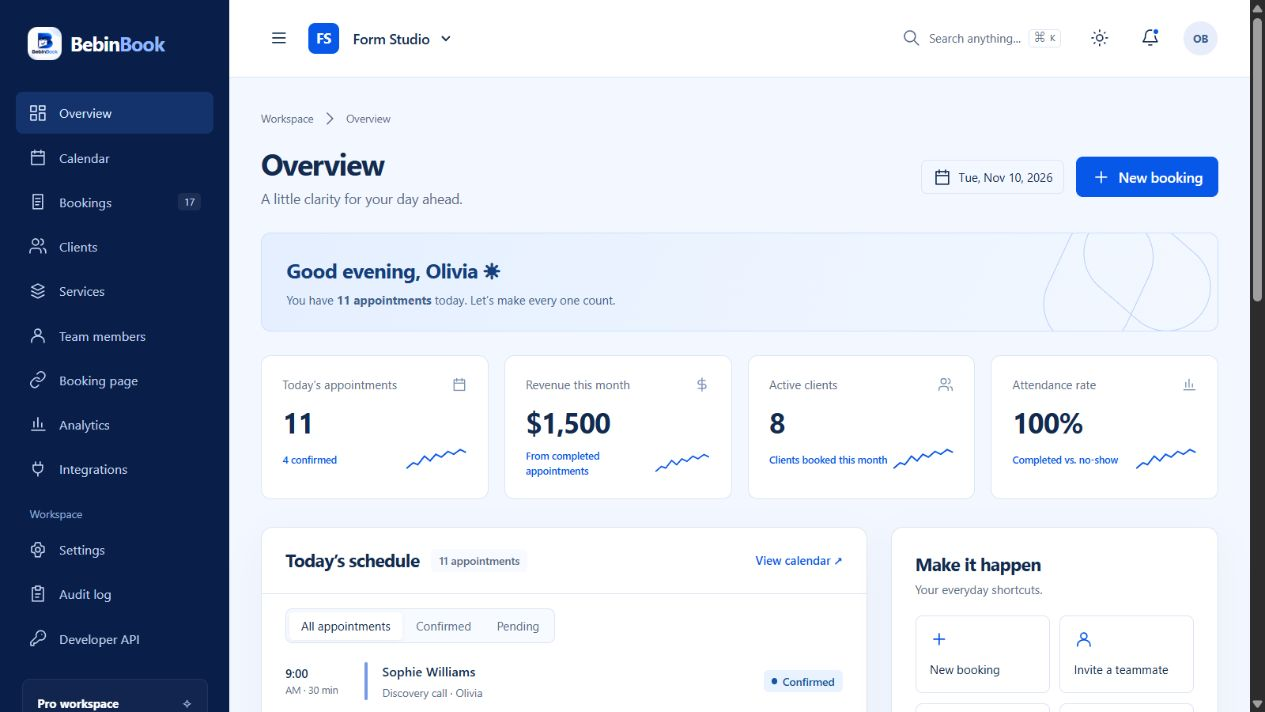
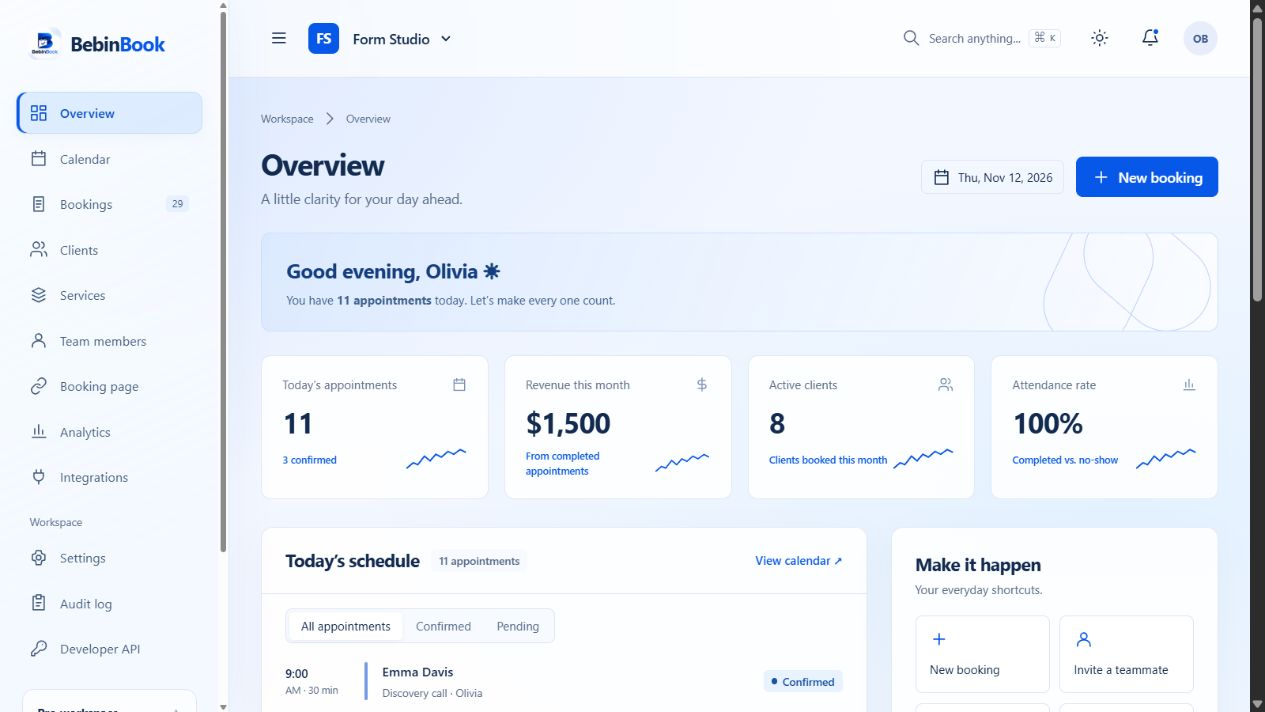
Refresh app with light translucent sidebar and surfaces

diff --git a/frontend/src/styles.css b/frontend/src/styles.css
@@ -14,6 +14,17 @@
   --sidebar: #091e49;
   --side-text: #c1d2ee;
   --on-sidebar-muted: #adc3e7;
+  --glass: rgba(255, 255, 255, 0.72);
+  --glass-strong: rgba(255, 255, 255, 0.88);
+  --glass-line: rgba(129, 162, 216, 0.24);
+  --nav-glass: rgba(245, 250, 255, 0.76);
+  --nav-text: #455d7e;
+  --nav-muted: #5b7090;
+  --nav-active: #0750cf;
+  --nav-active-bg: rgba(218, 233, 255, 0.86);
+  --nav-hover: rgba(224, 236, 255, 0.66);
+  --ambient-blue: rgba(109, 164, 255, 0.19);
+  --ambient-sky: rgba(139, 208, 255, 0.15);
   --accent: #2757b8;
   --blue: #2168bc;
   --service-1: #7699e8;
@@ -52,13 +63,28 @@
   --welcome-muted: #b5c9e9;
   --danger: #ff9ba9;
   --shadow: 0 12px 40px #0002;
+  --glass: rgba(18, 33, 59, 0.72);
+  --glass-strong: rgba(20, 38, 65, 0.9);
+  --glass-line: rgba(142, 180, 235, 0.2);
+  --nav-glass: rgba(21, 40, 69, 0.76);
+  --nav-text: #c1d2ed;
+  --nav-muted: #a6bbd9;
+  --nav-active: #dbe9ff;
+  --nav-active-bg: rgba(67, 112, 183, 0.38);
+  --nav-hover: rgba(80, 122, 184, 0.18);
+  --ambient-blue: rgba(55, 105, 187, 0.2);
+  --ambient-sky: rgba(49, 118, 160, 0.12);
 }
 * {
   box-sizing: border-box;
 }
 body {
   margin: 0;
-  background: var(--bg);
+  background:
+    radial-gradient(ellipse at 0% 8%, var(--ambient-blue), transparent 48%),
+    radial-gradient(ellipse at 90% 70%, var(--ambient-sky), transparent 48%),
+    var(--bg);
+  background-attachment: fixed;
   color: var(--text);
   font: 14px/1.5 var(--font);
 }
@@ -163,8 +189,6 @@ small,
 .brand-word-accent {
   color: #0757e8;
 }
-.sidebar .brand-word-accent,
-.authaside .brand-word-accent,
 [data-theme="dark"] .brand-word-accent {
   color: #8fb5ff;
 }
@@ -261,8 +285,8 @@ small,
   gap: 20px;
 }
 .panel {
-  background: var(--surface);
-  border: 1px solid var(--line);
+  background: var(--glass-strong);
+  border: 1px solid var(--glass-line);
   border-radius: var(--radius);
   box-shadow: var(--shadow);
 }
@@ -466,25 +490,34 @@ small,
   position: fixed;
   inset: 0 auto 0 0;
   width: 232px;
-  background: var(--sidebar);
-  color: var(--side-text);
+  background:
+    linear-gradient(155deg, var(--glass), transparent 75%), var(--nav-glass);
+  color: var(--nav-text);
+  border-right: 1px solid var(--glass-line);
+  box-shadow:
+    8px 0 40px rgba(33, 79, 144, 0.04),
+    inset -1px 0 0 var(--glass);
+  -webkit-backdrop-filter: blur(24px) saturate(140%);
+  backdrop-filter: blur(24px) saturate(140%);
   z-index: 30;
   display: flex;
   flex-direction: column;
   padding: 27px 16px 16px;
+  overflow-y: auto;
+  scrollbar-width: thin;
 }
 .sidebar .logo {
-  color: #fff;
+  color: var(--text);
   margin: 0 12px 32px;
 }
 .sidegroup {
   font-size: 11px;
-  color: #96b1d9;
+  color: var(--nav-muted);
   padding: 16px 14px 7px;
 }
 .sidenav {
   display: grid;
-  gap: 3px;
+  gap: 4px;
 }
 .navitem {
   display: flex;
@@ -492,22 +525,28 @@ small,
   gap: 12px;
   padding: 10px 13px;
   min-height: 42px;
-  border-radius: 7px;
-  color: var(--side-text);
+  border: 1px solid transparent;
+  border-radius: 10px;
+  color: var(--nav-text);
   font-size: 13px;
 }
 .navitem:hover {
-  background: #ffffff0c;
-  color: #fff;
+  background: var(--nav-hover);
+  color: var(--nav-active);
 }
 .navitem.active {
-  background: #478cff30;
-  color: var(--highlight);
+  background: var(--nav-active-bg);
+  color: var(--nav-active);
+  border-color: var(--glass-line);
+  box-shadow:
+    inset 3px 0 0 var(--brand),
+    0 4px 12px rgba(42, 94, 177, 0.05);
+  font-weight: 600;
 }
 .navitem .count {
   margin-left: auto;
   font-size: 10px;
-  background: #ffffff12;
+  background: var(--nav-hover);
   padding: 1px 6px;
   border-radius: 4px;
 }
@@ -516,44 +555,49 @@ small,
 }
 .planbox {
   padding: 15px;
-  background: #ffffff08;
-  border: 1px solid #ffffff12;
-  border-radius: 8px;
+  background: var(--glass);
+  border: 1px solid var(--glass-line);
+  border-radius: 12px;
   margin: 20px 6px 16px;
   font-size: 12px;
 }
 .planbox .progress {
-  background: #ffffff1c;
+  background: var(--nav-hover);
 }
 .planbox .progress span {
-  background: var(--highlight);
+  background: var(--brand);
 }
 .planbox .link {
-  color: var(--highlight);
+  color: var(--nav-active);
   font-size: 12px;
 }
 .sideprofile {
   display: flex;
   align-items: center;
   gap: 10px;
-  border-top: 1px solid #ffffff14;
+  border-top: 1px solid var(--glass-line);
   padding: 16px 10px 0;
 }
 .sideprofile strong {
-  color: #fff;
+  color: var(--text);
   font-size: 12px;
 }
 .sideprofile .subtext {
-  color: var(--on-sidebar-muted);
+  color: var(--nav-muted);
   font-size: 10px;
 }
 .appmain {
   margin-left: 232px;
 }
 .topbar {
+  position: sticky;
+  top: 0;
+  z-index: 25;
   height: 78px;
   border-bottom: 1px solid var(--line);
-  background: var(--surface);
+  background: var(--glass);
+  -webkit-backdrop-filter: blur(20px) saturate(140%);
+  backdrop-filter: blur(20px) saturate(140%);
   display: flex;
   align-items: center;
   justify-content: space-between;
@@ -665,7 +709,7 @@ small,
 .welcome {
   position: relative;
   overflow: hidden;
-  background: linear-gradient(110deg, var(--welcome-start), var(--welcome-end));
+  background: linear-gradient(110deg, var(--nav-active-bg), var(--glass));
   border: 1px solid var(--brand-border);
   padding: 22px 25px;
   margin-bottom: 24px;
@@ -689,8 +733,8 @@ small,
 }
 .metric {
   padding: 20px 21px;
-  background: var(--surface);
-  border: 1px solid var(--line);
+  background: var(--glass-strong);
+  border: 1px solid var(--glass-line);
   border-radius: 10px;
 }
 .metric-label {
@@ -1526,8 +1570,13 @@ tr:hover td {
   line-height: 1.8;
 }
 .cta {
-  background: var(--sidebar);
-  color: white;
+  background: linear-gradient(
+    120deg,
+    var(--nav-active-bg),
+    var(--glass-strong)
+  );
+  border: 1px solid var(--glass-line);
+  color: var(--text);
   border-radius: 16px;
   padding: 48px;
   display: flex;
@@ -1539,7 +1588,7 @@ tr:hover td {
   font-size: 30px;
 }
 .cta p {
-  color: var(--on-sidebar-muted);
+  color: var(--muted);
   margin-top: 10px;
 }
 .authpage {
@@ -1549,8 +1598,9 @@ tr:hover td {
   background: var(--surface);
 }
 .authaside {
-  background: var(--sidebar);
-  color: white;
+  background: linear-gradient(155deg, var(--nav-active-bg), var(--glass));
+  border-right: 1px solid var(--glass-line);
+  color: var(--text);
   padding: 40px 60px;
   display: flex;
   flex-direction: column;
@@ -1565,7 +1615,7 @@ tr:hover td {
   max-width: 400px;
 }
 .authaside p {
-  color: var(--on-sidebar-muted);
+  color: var(--muted);
   margin-top: 24px;
   max-width: 370px;
   font-size: 15px;
@@ -2095,7 +2145,9 @@ h3 {
     bottom: 0;
     left: 0;
     right: 0;
-    background: var(--surface);
+    background: var(--glass-strong);
+    -webkit-backdrop-filter: blur(20px) saturate(140%);
+    backdrop-filter: blur(20px) saturate(140%);
     border-top: 1px solid var(--line);
     justify-content: space-around;
     z-index: 40;

diff --git a/frontend/src/Shell.jsx b/frontend/src/Shell.jsx
@@ -54,6 +54,7 @@ export default function Shell({ children }) {
                 key={id}
                 href={"#" + id}
                 className={"navitem " + (page === id ? "active" : "")}
+                aria-current={page === id ? "page" : undefined}
               >
                 <Icon name={ic} />
                 <span className="navlabel">{t}</span>
@@ -63,12 +64,12 @@ export default function Shell({ children }) {
         <div className="sidebottom">
           <div className="planbox">
             <div className="row between">
-              <strong style={{ color: "white" }}>{w.plan} workspace</strong>✧
+              <strong style={{ color: "var(--text)" }}>
+                {w.plan} workspace
+              </strong>
+              ✧
             </div>
-            <div
-              className="subtext"
-              style={{ color: "var(--on-sidebar-muted)" }}
-            >
+            <div className="subtext" style={{ color: "var(--nav-muted)" }}>
               {count} / {w.plan === "Business" ? "∞" : plans[w.plan].bookings}{" "}
               monthly bookings
             </div>

diff --git a/frontend/src/Marketing.jsx b/frontend/src/Marketing.jsx
@@ -280,7 +280,7 @@ export function Auth({ type }) {
           </h2>
           <p>A thoughtful home for a beautifully busy business.</p>
         </div>
-        <small style={{ color: "var(--on-sidebar-muted)" }}>
+        <small style={{ color: "var(--muted)" }}>
           Make room for what matters.
         </small>
       </aside>
